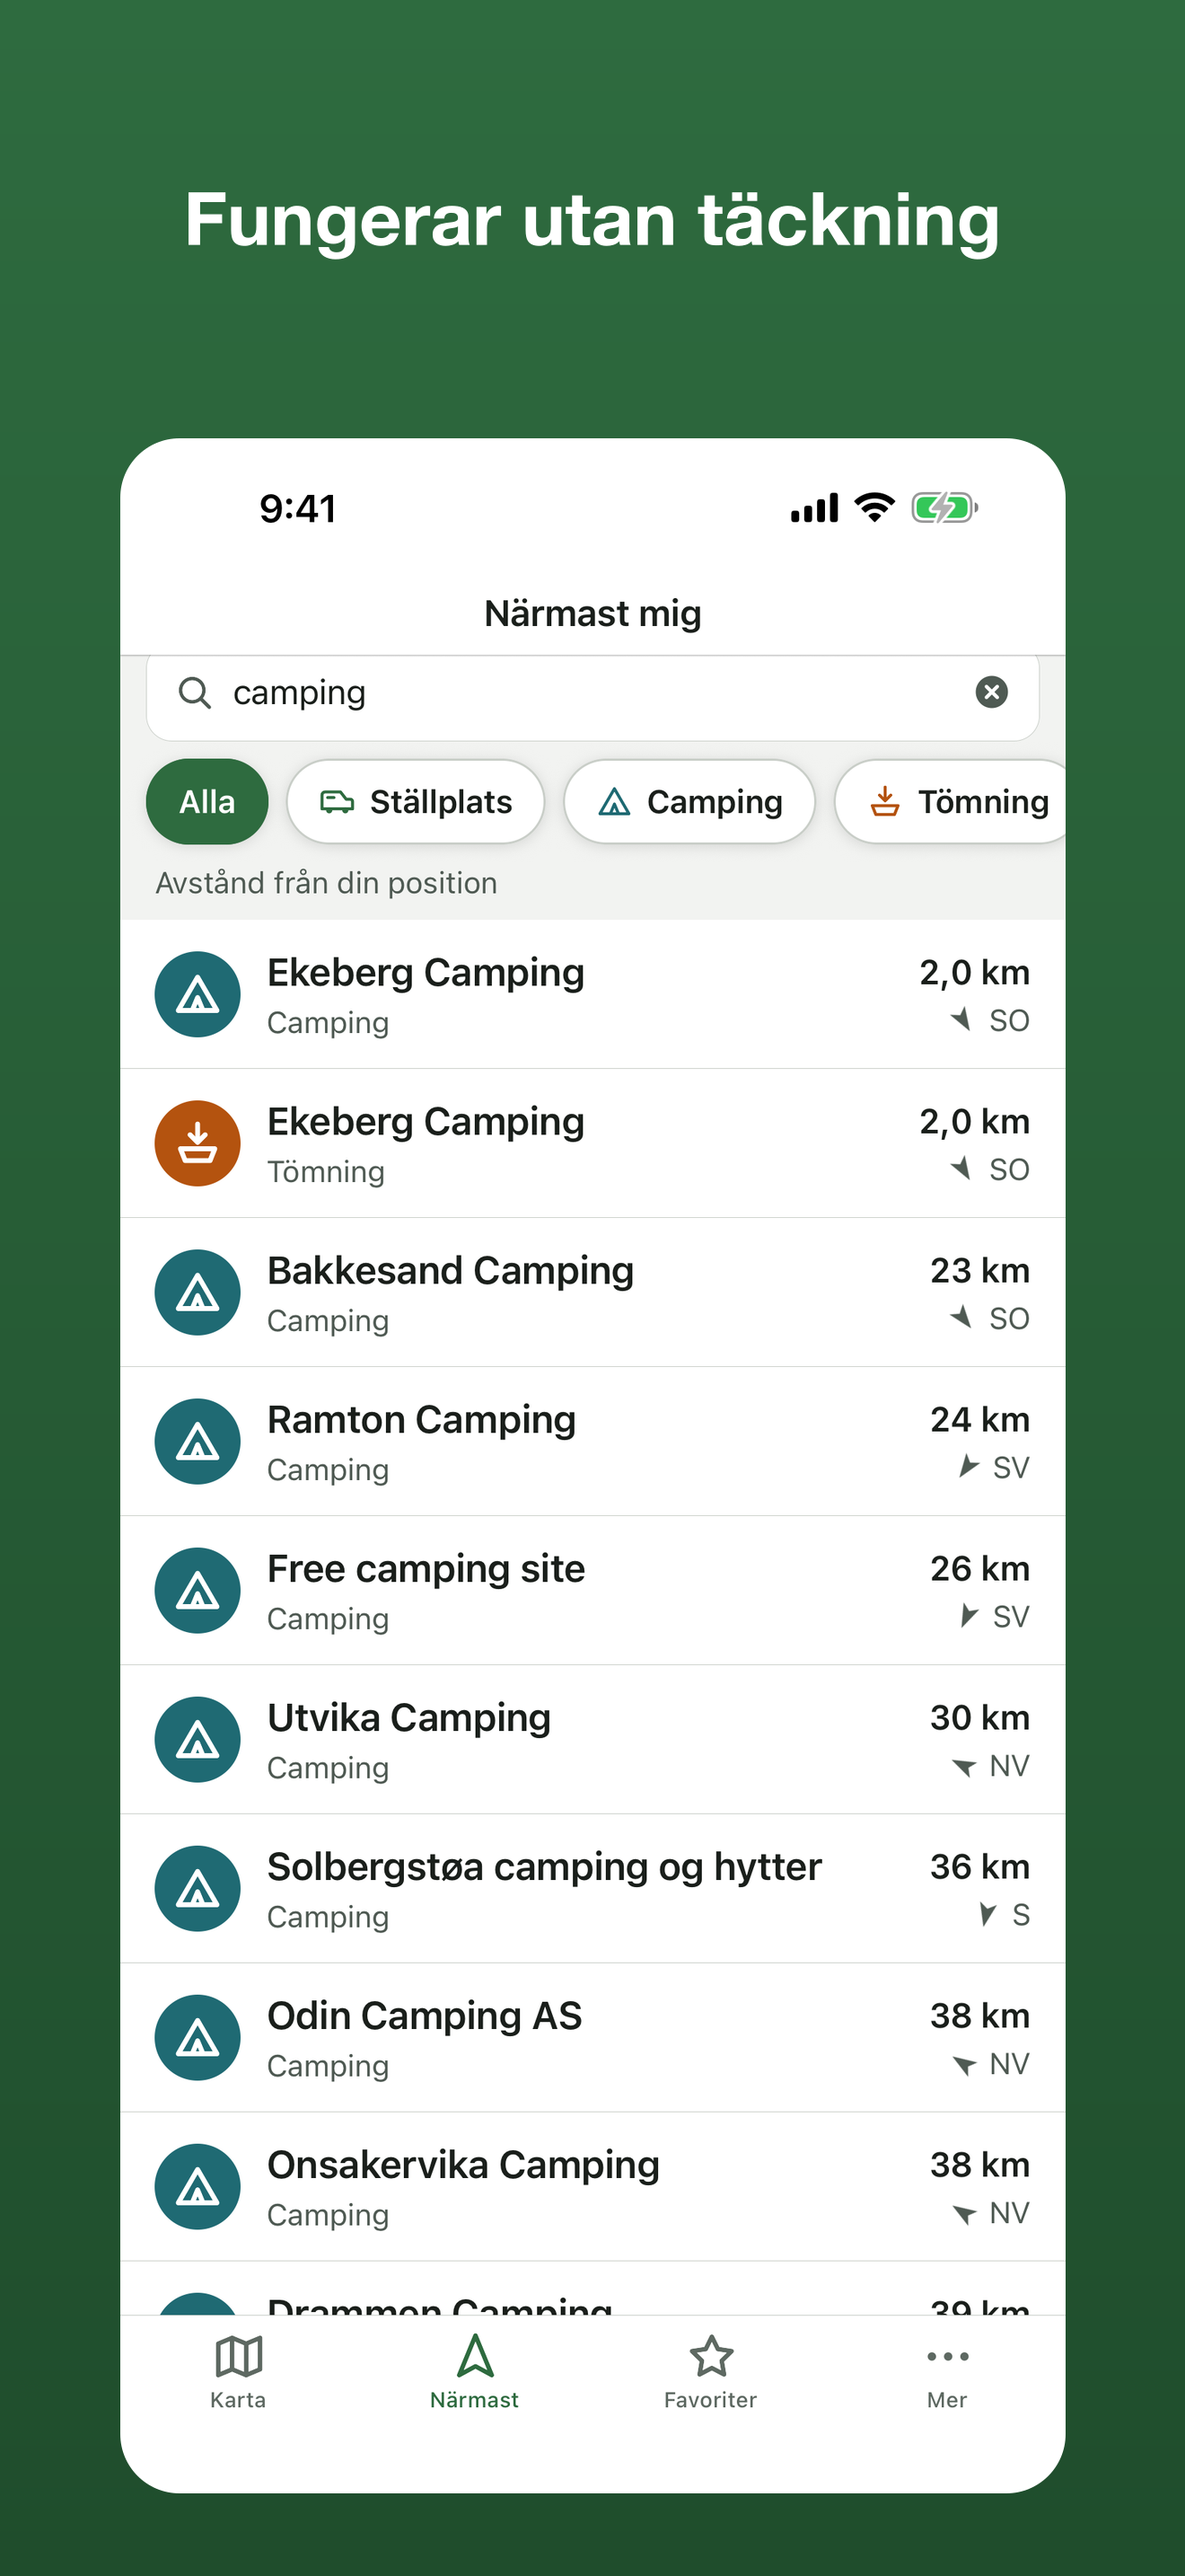
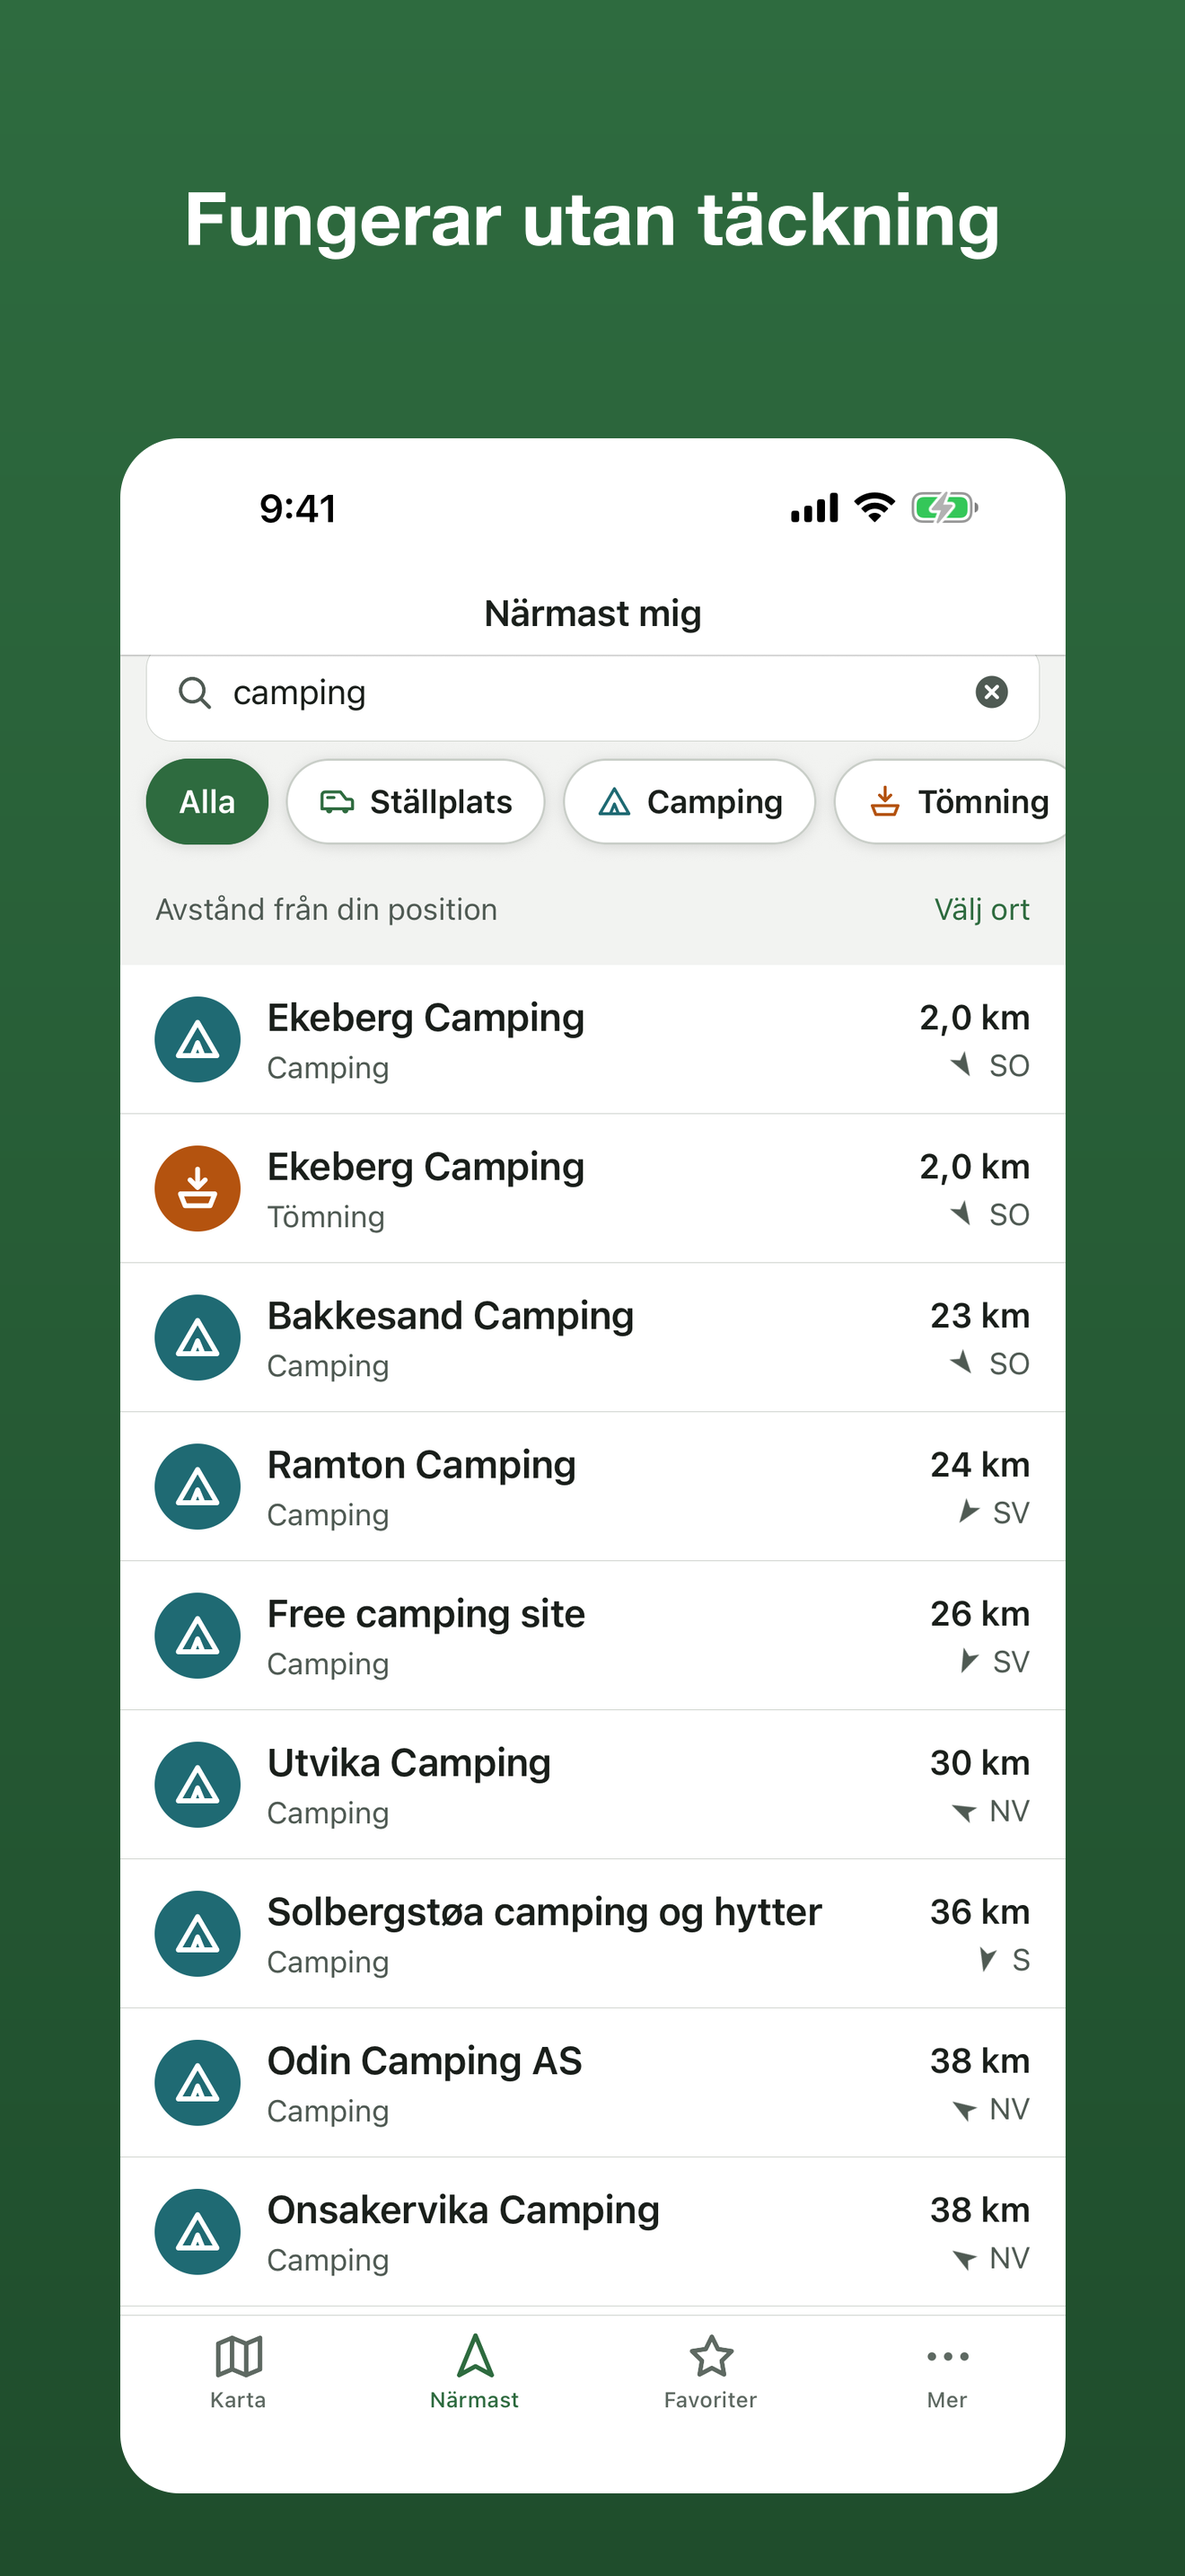
iOS store screenshots retaken: 6 per language with the location search
18 shots (sv/nb/en, 1320x2868, RGB): the map now shows the search bar and
the new sixth shot shows search results (Åre in sv/en, Geiranger in nb).
Taken by the screenshot job with the per-shot checks; all languages passed
on the first attempt. Reviewed before copying.

Claude-Session: https://claude.ai/code/session_014fhVQoAAdhJzgqPnvWSuxT

Changed region(s): [[0.1242, 0.3414, 0.6833, 0.8999], [0.7765, 0.3414, 0.8697, 0.8999]]

diff --git a/PROGRESS.md b/PROGRESS.md
@@ -110,8 +110,8 @@ Definition of done: _Allt i avsnitt 9–10 klart i `store/`, integritetspolicy p
 - [x] Feature graphic 1024×500 (sv/nb/en) och Play-ikon 512²
 - [x] Integritetspolicy sv/nb/en (`site/privacy/`) + Pages-startsida och öppen-data-sida
 - [x] Material för slutet test och TestFlight (inbjudan, guide, påminnelser dag 7/12, svar till produktionsansökan) – `store/testing/`
-- [x] Skärmdumpar Android 1080×1920 sv/nb/en (5 st/språk) – `store/screenshots/final/android/`, metod i `store/screenshots/README.md`
-- [x] Skärmdumpar iPhone 6,9" (1320×2868) sv/nb/en (5 st/språk) – `store/screenshots/final/ios/`
+- [x] Skärmdumpar Android 1080×1920 sv/nb/en (5 st/språk, utan sökbilden – Android pausad) – `store/screenshots/final/android/`, metod i `store/screenshots/README.md`
+- [x] Skärmdumpar iPhone 6,9" (1320×2868) sv/nb/en (6 st/språk inkl. ortssökningen, tagna om 2026-10-12) – `store/screenshots/final/ios/`
 - [x] Integritetspolicy publicerad (sv/nb/en): <https://lingu78.github.io/rastcamp/privacy/>
 
 ## M8 – 🔑 Konton & första byggen
